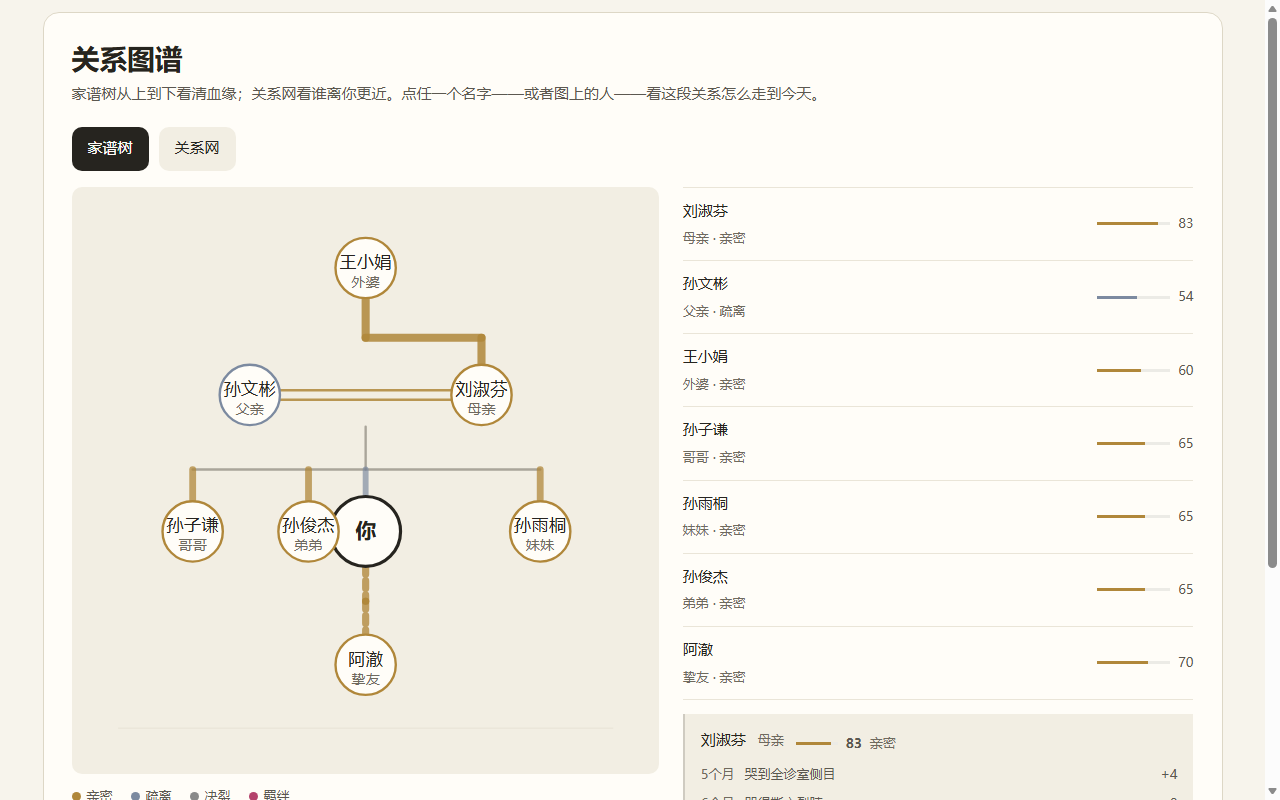
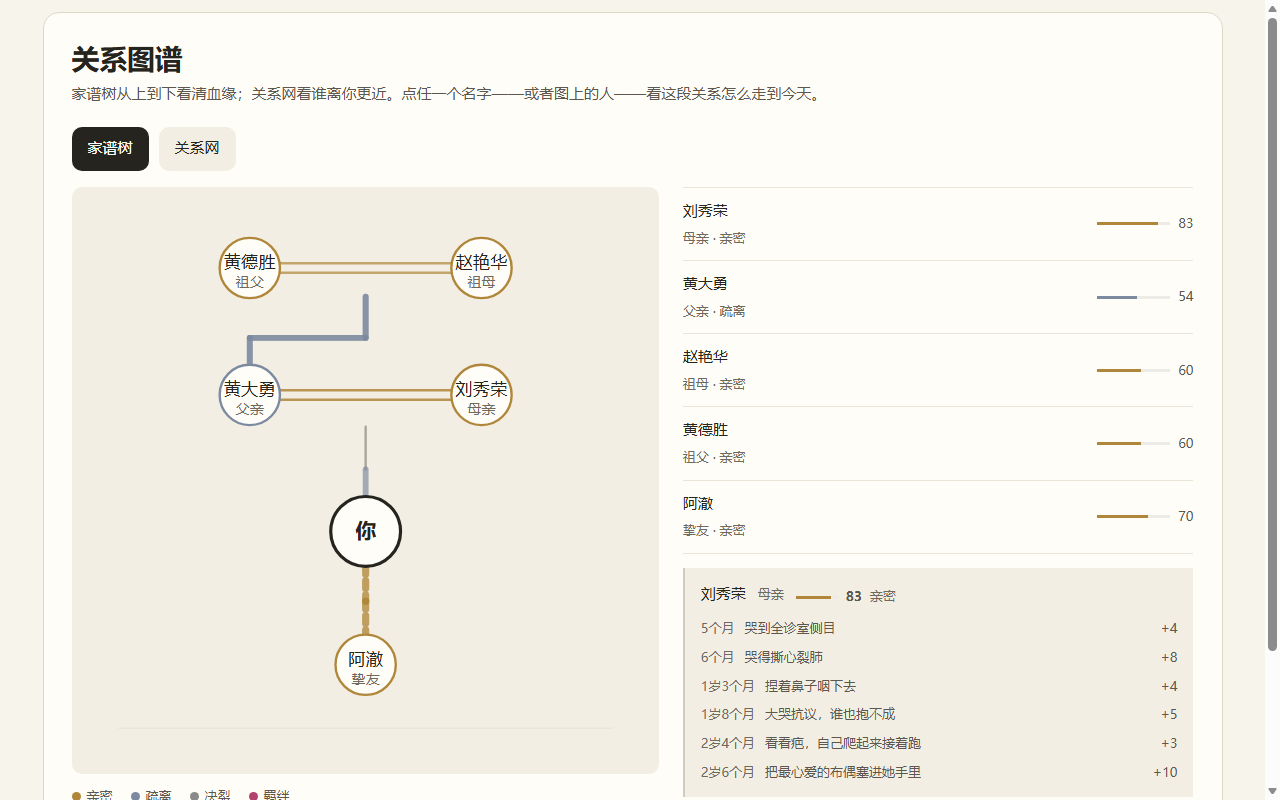
心路：v5-M4'''' 发布就绪态（v5.0.0 文书批·tag 前主体）
- 版本号 5.0.0（package.json + package-lock），tag 同号
- CHANGELOG v5.0.0：数据口径版本 v5.0.0 数据口径（事件 295 = 主线/支线 243 + 偶遇层 40 + 线索解锁 12；时代锚 76；结局 8+1；画像 16；birth-map 四要素 288 + 八因素 51840 组合域；家庭槽位 10 枚；线索 6 条；语义配图 48 张 19 类），并写明九条变更面与已知限制
- 历史存档建议重开声明（本版的重开理由是「文本口径与判定呈现变化」而非判定结论变化）：正文/选项按阅读预算重写、卡片分五种变体、新增偶遇层与轻量线索；判定核零改动、存档 schema 仍 xinlu.save.v3 不加字段、旧档可原样续读不报错，但旧档 history 存的是 v4 长文本与旧选项文案，续玩得不到 v5 的阅读体验，建议重开
- README 增量不破行门（120/120 ≤120 机检）：新增「v5 新增：一屏一句话，一个决定」九条；玩法规模 283→295 事件（偶遇 40 + 线索解锁 12）；v3 节图标数按实测改 250 枚；v2/v3/v4 节折行腾量，信息零删减
- plan/05 追加 §十 v5.0.0 发布留档主体（tag 时点事实 tag 前写定：代码态 6c085e1 全套门实测全绿；发布就绪态 = 本节所在提交代码面与 6c085e1 零差异、git diff 为空；干净静态服务双端一键通关 + 768 + v5 自定义出生全流程 exit 0 同一口径；门禁终值 validate 0 FAIL 14 区 / validate:story 七项绿 / validate:rhythm 绿 / vitest 399/399 / typecheck 0 / 许可门 0 FAIL 459 件 / 预算门 760.43KB ≤ 850KB 0 WARN / 脱敏门 531 文件 0 命中 / 布局门全绿；文本终值 主句 102·P90 117·最长 120 / 选项 8·16·0% / 单屏最长 158；dist.zip 784,893 字节 + sha256 入档；Pages 部署行留收官提交补记）
- plan/v5/00 文档索引 05 行 ⬜→✅ 主体已撰写 + plan/v5/05 骨架状态行同步翻 ✅
- e2e 截图按惯例重留痕（375/768/1280 双口径各一轮 + v5 开局四步/四主题/图谱双视图）

diff --git a/README.md b/README.md
@@ -2,10 +2,7 @@
 
 > 一段出生环境，上百个人生抉择——看 E-I / S-N / T-F / J-P 四维倾向值，慢慢长成一个人格。
 
-**心路**是一款纯前端的文字人生模拟游戏：从出生年与南北、城乡、家庭结构、父母职业、家境等八因素定盘开局
-（51840 种组合，也可「随机出生」一键开局并得到可复现的种子码），在婴儿到老年的 8 个阶段里逐张应对
-事件卡与时代卡；每次选择先落在世界观/人生观/价值观三层倾向上，再派生出 E-I / S-N / T-F / J-P 四维
-倾向值，阶段小结的手绘雷达图与演化曲线记下全部轨迹，终局凝结成带关键抉择复盘的人格报告与关系图谱快照。
+**心路**是一款纯前端的文字人生模拟游戏：从出生年与南北、城乡、家庭结构、父母职业、家境等八因素定盘开局（51840 种组合，也可「随机出生」一键开局并得到可复现的种子码），在婴儿到老年的 8 个阶段里逐张应对事件卡与时代卡；每次选择先落在世界观/人生观/价值观三层倾向上，再派生出 E-I / S-N / T-F / J-P 四维倾向值，阶段小结的手绘雷达图与演化曲线记下全部轨迹，终局凝结成带关键抉择复盘的人格报告与关系图谱快照。
 
 ![实玩演示（375px 移动端）](docs/assets/demo.gif)
 
@@ -20,44 +17,48 @@ npm install
 npm run dev      # 浏览器打开 http://localhost:5173
 ```
 
-零运行时依赖：`dependencies` 恒空，全部逻辑为原生 TypeScript + 手绘 SVG；单机离线可玩，
-进度保存在本机浏览器 localStorage（`xinlu.save.v3`，旧档自动迁移不清档），无账号、不上传任何数据；
+零运行时依赖：`dependencies` 恒空，全部逻辑为原生 TypeScript + 手绘 SVG；单机离线可玩，进度保存在本机浏览器 localStorage（`xinlu.save.v3`，旧档自动迁移不清档），无账号、不上传任何数据；
 **AI 旁路默认关闭**——关闭时全程零网络请求，离线行为与 v2 一致（见「v3 新增」一节）。
 
 ## 玩法与内容规模
 
 - **开局定盘**：出生年 + 八因素画像共 51840 种组合决定初始倾向与家人（1955–2030 出生年全域可玩）；
-- **卡片人生**：8 个阶段共 283 条事件（fate 主线 + 学业/事业/情感/友谊/健康五条支线 243 条 + 偶遇层 40 条，每题 2–3 个选项）
+- **卡片人生**：8 个阶段共 295 条事件（fate 主线 + 学业/事业/情感/友谊/健康五条支线 243 条 + 偶遇层 40 条 + 线索解锁 12 条，每题 2–3 个选项）
   与 76 张年代时代卡（逐年主锚随人生注入），其中 22 次重大抉择会显著改写轨迹；
-- **演化报告**：8 条件结局 + 1 兜底结局全部实玩与线性策略双路可达（引擎级 2496 组轴空间扫描守护），
-  16 型 MBTI 画像全文收束；终局展示本局种子码（`XL-XXXX-XXXX`）——同码同选择，结果必复现。
+- **演化报告**：8 条件结局 + 1 兜底结局全部实玩与线性策略双路可达（引擎级 2496 组轴空间扫描守护），16 型 MBTI 画像全文收束；终局展示本局种子码（`XL-XXXX-XXXX`）——同码同选择，结果必复现。
 
 以上数字由数据门自动对账：`npm run validate -- --count`。
 
 ## v2 新增：人格鱼、图鉴与分享卡
 
 - **人格鱼 mascot**：四维倾向值实时参数化一条鱼的形态与表情，全程陪伴（选项反馈 / 阶段小结 / 终局主视觉）；
-- **16 型图鉴**：开局屏进入，通关自动入册（本机 `xinlu.gallery.v2`），终局提示还有几型未解锁；
-- **终局分享卡**：一键导出 1080×1440 PNG，纯客户端生成、零上传；出生环境同步映射水域背景与云层氛围；
-- 全部素材许可与署名见 [素材与许可说明](public/credits.md)。
+- **16 型图鉴**：开局屏进入，通关自动入册（本机 `xinlu.gallery.v2`），终局提示还有几型未解锁；**终局分享卡**：一键导出 1080×1440 PNG，纯客户端生成、零上传，出生环境同步映射水域背景与云层氛围；全部素材许可与署名见 [素材与许可说明](public/credits.md)。
 
 ## v3 新增：时间轴画卷、三观传导与 AI 旁路
 
-- **时间轴画卷**：桌面双栏（八段阶段轨道 + 事件卡流）+ 移动时间轴，283 枚叙事图标逐事件配图（Game-Icons CC-BY，一图多事件语义复用，对照表留痕）；
-- **三观传导层**：选项先作用于世界观/人生观/价值观，再按传导表派生四维——性格只是表现，不是原因；三观另有随年龄的阶段漂移与内心独白提示；
-- **多线人生 + 状态条**：五条支线与主线轮转登场；心境/积蓄/健康常驻状态条随选择增损，低值触发救援事件；
-- **关系图谱**：父母、伴侣、挚友、师长等 7 位 NPC 随选择积累羁绊（按三观距离衰减），分决裂/疏离/亲密/羁绊四档；阶段小结可查看环形图谱，终局收录关系快照；
-- **随机出生与种子码**：一键随机派生出身，`XL-XXXX-XXXX` 种子码双向无损，输入任意种子码可复现同一出身；
+- **时间轴画卷**：桌面双栏（八段阶段轨道 + 事件卡流）+ 移动时间轴，295 条事件逐事件配图（Game-Icons CC-BY 250 枚，一图多事件语义复用，对照表留痕）；
+- **三观传导层**：选项先作用于世界观/人生观/价值观，再按传导表派生四维——性格只是表现，不是原因；三观另有随年龄的阶段漂移与内心独白提示；**多线人生 + 状态条**：五条支线与主线轮转登场，心境/积蓄/健康常驻状态条随选择增损，低值触发救援事件；
+- **关系图谱**：父母、伴侣、挚友、师长等 7 位 NPC 随选择积累羁绊（按三观距离衰减），分决裂/疏离/亲密/羁绊四档；阶段小结可查看环形图谱，终局收录关系快照；**随机出生与种子码**：一键随机派生出身，`XL-XXXX-XXXX` 种子码双向无损，输入任意种子码可复现同一出身；
 - **AI 旁路（可选）**：**默认关闭**，关闭时全程零网络请求；开启需自带 Key（BYO Key，OpenAI 兼容服务商），仅用于自定义选项叙事、事件文案变体与终局点评——LLM 输出限制在闭集标签内、数值本地钳制，判定核心永不联网，不可用或超时自动降级回离线行为（全仓唯一网络调用点 + 过网隔离测试守护）。
 
 ## v4 新增：年代中国、家庭与实感
 
 - **有年份的人生**：出生年（随机 / 手选 / 六因素自定义）贯通全程，「YYYY 年·N 岁」徽章逐卡可见，76 个年代主锚时代卡（1955–2030，查证三态表留痕）按五闸注入人生流；
 - **出生即家庭**：八因素画像（51840 组合）开局生成 5 位家人（南北姓名池同局不重名），「我的家庭」图谱常驻入口；
-- **故事写实化**：243 条主线/支线文本全量重写——年代锚 / 南北差异 / 家境呼应 / 五感细节 / 支线互引（机检四项 + 人工抽查留痕）；v5 起主句 ≤120 字、原文整段保留在「细看」层（内容零损失）；
-- **实感包**：主题四款（米纸 / 月白 / 夜航 / 青瓷）；积蓄按年代换算「元」+ 心境/健康五档词；移动端顶部八段阶段条；小结五段重做（三观三轴位移 / 身家状态 / 关键抉择回顾）；
-- **对象级图标与配图**：事件卡图标按文本核心物件重选，小结 8 张自产 CC0 剪影场景图随主题换色；
-- **存档 v3**：旧档自动迁移不清档；年代事件改变人生体验与判定输入，建议重开新局。
+- **故事写实化**：243 条主线/支线文本全量重写——年代锚 / 南北差异 / 家境呼应 / 五感细节 / 支线互引（机检四项 + 人工抽查留痕）；
+- **实感包**：主题四款（米纸 / 月白 / 夜航 / 青瓷）；积蓄按年代换算「元」+ 心境/健康五档词；移动端顶部八段阶段条；小结五段重做（三观三轴位移 / 身家状态 / 关键抉择回顾）；**对象级图标与配图**：事件卡图标按文本核心物件重选，小结 8 张自产 CC0 剪影场景图随主题换色；**存档 v3**：旧档自动迁移不清档，年代事件改变人生体验与判定输入，建议重开新局。
+
+## v5 新增：一屏一句话，一个决定
+
+- **文本瘦身（内容零损失）**：主句重写至 ≤120 字（中位 104 字），选项短句化（中位 8 字）每题 2–3 个，单屏可见 ≤160 字；原文整段进「细看」层（`detail`，243/243 逐字等于 v4 原文）；
+- **节奏变体**：卡片分五种形态——抽卡 / 概率条 / 静读 / 短词二选一 / 线索，每阶段 ≥3 种（节奏门 8 局 × 8 阶段实证），概率全走种子 RNG 同种子同结果；
+- **偶遇层 40 条**：按种子每阶段 0–3 条偶遇，不占主线/支线进度（也可一条不来，留白是有意的）；
+- **家庭槽位逐位命名**：图谱不再是笼统「父母」，而是父亲/母亲/外公/外婆等 10 枚槽位；单亲家庭不再凭空长出一位未生成的家长（缺陷修复）；
+- **开局四步 + 出生证明**：一屏一个问题（三选一 → 八因素表单 → 出生证明 → 起程）可逐级回退不丢值；出生证明一屏读全八因素 + 种子码，随机态可「再来一次」；
+- **素纸主题**：删纸纹与背景图，四款主题提对比重做（ink/ground ≥7:1 逐主题断言）；设置页补阅读偏好（字号/动效）与清档；
+- **家谱树双视图**：默认家谱树（三代纵向、玩家居中、正交母线、婚姻双线），可切关系网（曲线 + 亲疏 = 线宽 × 透明度）；点节点看关系值与该段关系的逐条变化记录；
+- **语义配图**：48 张自产 CC0 线稿 / 19 类，按事件核心物件映射，覆盖 85.8%，未覆盖 42 条显式豁免（不留空框）；逐张对文案留痕 [docs/v5-scenes.md](docs/v5-scenes.md)；
+- **轻量线索**：每阶段最多 1 处（共 6 条）——锚事件后 2–3 条观察、两个解读二选一，选完解锁 12 条新事件；纯 flag 判定（零随机、不动三观），线索卡不显示三观增量。
 
 ## 人格模型依据
 

diff --git a/CHANGELOG.md b/CHANGELOG.md
@@ -2,7 +2,26 @@
 
 版本遵循语义化版本；内容版本规则（双层版本的游戏版）见 [plan/06-运维节奏.md](plan/06-运维节奏.md)：结局/画像判定结论变化 → 主版本 +1 并在 Release 注明历史存档是否需重开；新增事件/结局 → 次版本 +1；纯文案微调 → 补丁。
 
-**每条发布条目均注明数据口径版本。** 数值口径单一定义源：v1 口径在 [plan/02-数据与口径.md](plan/02-数据与口径.md)，v2 增量在 [plan/v2/02-数据与口径.md](plan/v2/02-数据与口径.md)，v3 增量在 [plan/v3/02-数据与口径.md](plan/v3/02-数据与口径.md)，v4 增量在 [plan/v4/02-数据与口径.md](plan/v4/02-数据与口径.md)；实际规模以对账命令 `npm run validate -- --count` 输出为准。
+**每条发布条目均注明数据口径版本。** 数值口径单一定义源：v1 口径在 [plan/02-数据与口径.md](plan/02-数据与口径.md)，v2 增量在 [plan/v2/02-数据与口径.md](plan/v2/02-数据与口径.md)，v3 增量在 [plan/v3/02-数据与口径.md](plan/v3/02-数据与口径.md)，v4 增量在 [plan/v4/02-数据与口径.md](plan/v4/02-数据与口径.md)，v5 增量在 [plan/v5/02-数据与口径.md](plan/v5/02-数据与口径.md)；实际规模以对账命令 `npm run validate -- --count` 输出为准。
+
+## v5.0.0（2026-10-26）
+
+**数据口径版本**：v5.0.0 数据口径（2026-10-26 末态，plan/02 + plan/v2/02 + plan/v3/02 + plan/v4/02 + plan/v5/02 单源。事件库 **295**（主线/支线 243 + 偶遇层 40 + 线索解锁 12）/ 时代锚 76（✅已核对 55 / 典型值 21，国际 10） / 结局 8 条件 + 1 兜底 / 画像 16 / birth-map 四要素 288 + 八因素 51840 组合域 / 家庭槽位 10 枚 / 线索 6 条 / 语义配图 48 张 19 类，对账 `npm run validate -- --count`）
+
+> **历史存档建议重开**：本版本改了**文本口径与判定呈现**——所有事件的正文与选项按阅读预算重写（主句中位 207→104 字、选项中位 20→8 字，原文整段折叠进「细看」层），卡片的呈现形态也分成了抽卡/概率条/静读/短词二选一/线索五种变体，并新增偶遇层与轻量线索。**判定核零改动**（三观传导 / 结局条件 / 调度单调 / 种子复现全部照旧），存档 schema 仍为 `xinlu.save.v3`、不加字段，**旧档可原样续读不会出错**；但旧档的 history 里存的是 v4 的长文本与旧选项文案，续玩看到的仍是上一版的阅读体验与卡片形态，建议重开新局体验 v5。
+
+- **文本瘦身（内容零损失）**：243 条主线/支线主句全部重写至 ≤120 字（中位 104 / P90 117 / 最长 120），选项短句化（中位 8 / 最长 16），每题收敛为 2–3 个选项；v4 原文整段迁移到 `detail` 字段，卡片「细看」层可展开读到（243/243 逐字等于 v4 原文，非文案字段零改动）；单屏可见字数 ≤160（E2E 全程硬断言，实测最长 158），状态条折叠为细线、正文行宽收敛到一行 34 字；
+- **节奏变体**：卡片不再只有一种呈现——抽卡、概率条、静读、短词二选一、线索五种形态按阶段分配（`validate:rhythm`：8 局 × 8 阶段每阶段 4–5 种变体、非 critical 段同变体连片 ≤3）；概率判定全走种子化 RNG，同种子同结果；
+- **偶遇层 40 条**：每阶段 5 条偶遇事件，按种子 0–3 条随机注入，不占主线/支线进度，也可一条不来（留白是有意的）；
+- **家庭槽位逐位命名（缺陷修复）**：图谱不再只有笼统的「父母」，而是父亲/母亲/外公/外婆等 10 枚槽位逐位命名（5 种家庭结构区间合法、南北侧系闭合）；家庭成员缺席即落空不入册，单亲家庭不会再凭空长出一位从未生成的家长；
+- **开局四步 + 出生证明卡**：一屏一个问题（随机 / 手选 / 自定义三选一 → 八因素表单 → 出生证明 → 起程），可逐级回退不丢已填的值；出生证明一屏读全八因素（出生年 / 南北 / 城乡 / 结构 / 父母职业 / 家境 / 家庭成员 / 种子码），随机态可「再来一次」换种子；
+- **素纸主题（D8）**：删除纸纹层与背景图，四款主题（米纸 / 月白 / 夜航 / 青瓷）提对比重做，`ink/ground`、`ink/surface` ≥7:1、`ink-2/ink-3` ≥4.5:1 逐主题断言；设置页补阅读偏好（字号 2 档 / 动效 2 档）与本机存档清除；
+- **家谱树双视图**：关系图谱默认「家谱树」——三代纵向、玩家恒在第二层正中、正交折线母线（多子女共用的走线只画一次）、婚姻双线；「关系网」视图重做为曲线连边 + 亲疏两维（线宽 × 透明度）；点任一节点看关系值与该段关系的逐条变化记录（何时 / 因何 / 增量，从 history 回查，不新增存档字段）；
+- **语义配图（D9）**：**自产 CC0 线稿 SVG 48 张 / 19 类**（≈0.7KB/张），按事件核心物件映射到语义标签，覆盖 253/295 = 85.8%，豁免 42 条显式不渲染（不占位、不留空框）；逐张对文案留痕 [docs/v5-scenes.md](docs/v5-scenes.md)（偏离原「CC0 照片」口径的理由与实测数据在该档 §一）；
+- **轻量线索（D10）**：每阶段最多 1 处（共 6 条）——锚事件后给 2–3 条观察、两个解读二选一，选完解锁 12 条新事件之一；判定为纯 flag 映射（零随机、零三观改动），线索卡不显示三观增量读数；
+- 零运行时依赖不变（`dependencies` 恒空；配图为内联静态 SVG）；GitHub Pages 同址更新；素材预算门 850KB 线（实测 760.43KB）。
+
+已知限制：MBTI 娱乐向定位（不构成心理测评）；AI 旁路为实验性可选功能（沿 v3 口径，默认关闭）；分享卡手机相册端 iOS Safari 兼容沿 v2 口径；配图为语义复用（一图多事件），不承诺每事件独有配图；线稿为同一套画法（共用画布/线宽/配色），表现力上限见 [plan/v5/backlog.md](plan/v5/backlog.md) 观察区；素材第三方许可与已知限制全文见 credits。
 
 ## v4.0.0（2026-10-26）
 

diff --git a/plan/05-发布留档.md b/plan/05-发布留档.md
@@ -168,3 +168,41 @@
 - [x] CHANGELOG 注明「年代事件改变人生体验与判定输入 → 历史存档建议重开」
 - [x] README 增量（v4 新增节 + save.v3 + 八因素开局口径）不破行门（119 行 / ≤120，状态行 = 表格行）
 - [x] 状态副本 / 台账翻齐（plan/00 + README 两副本 + v4/00 台账「历史存档重开声明」行 + v4/03 模块 6）
+
+## 十、v5.0.0 发布留档（v5-M4'''' · 2026-10-26）
+
+> 单源约定：v5 套件 [v5/05-发布留档.md](v5/05-发布留档.md) 是骨架载体，v5.0.0 的主体事实唯一存放本节（单源不双写），本节判据与 §七/§八/§九 同构。v5.0.0 = 文本口径与判定呈现变化 → 主版本 +1（双层版本规则，plan/06；**判定核零改动**，故重开建议的理由是「阅读体验与卡片形态换代」，不是判定结论变化）。
+
+### 发布概要
+
+| 项 | 值 |
+|---|---|
+| 版本 | v5.0.0（package.json / package-lock 5.0.0，tag 同号） |
+| 数据口径版本 | v5.0.0 数据口径（2026-10-26 末态；对账 `npm run validate -- --count`：事件 **295**（主线/支线 243 + 偶遇层 40 + 线索解锁 12） / 时代锚 76（✅已核对 55 / 典型值 21） / 结局 8 条件 + 1 兜底 / 画像 16 / birth-map 四要素 288 + 八因素 51840 组合域 / 家庭槽位 10 枚 / 线索 6 条 / 语义配图 48 张 19 类） |
+| 部署地址 | https://yuluo554.github.io/xinlu/（URL 不变，内容随 v5 更新） |
[1 lines of base64/hex data omitted]
+
+### tag 时点事实（2026-10-26，tag 之前写定）
+
+- 构建与验证：2026-10-26；代码态 commit `6c085e1`（v5-M3'''' 收官态，全套门在该态实测全绿）；发布就绪态 = 本节所在提交（README 增量 + CHANGELOG v5.0.0 + 版本号 5.0.0 + plan/05 §十主体 + v5/00 索引 05 行 + v5/05 骨架状态行，**代码面与 `6c085e1` 零差异**，dist 产物同构重建，`git diff 6c085e1..HEAD -- src/ scripts/ tools/` 为空）；
+- 干净环境冒烟：纯静态服务（`py -m http.server` 伺服 `dist/`，等价 Pages 托管）**375/1280 双端一键通关**（ESFJ「路上的人」两档）+ 768 中档 + v5 自定义出生全流程（四步开局 / 八因素逐项对账 / 1956 时代卡首屏 / 年份徽章 / 我的家庭图谱本局姓名 / 存档 v3 形状）exit 0（`node tests/e2e/smoke.mjs --no-build --base-url <static-url>` 同一口径）；
+- 门禁终值（发布就绪态实测）：e2e 双端绿（两口径：vite preview 全量 `npm run e2e` + 干净静态服务）/ validate **0 FAIL（14 区）**（295 事件 / 图标 295/295 / `F` 家庭槽位 / `C` 线索 / `S` 语义配图）/ validate:story **七项全绿**（扫到 255 条）/ validate:rhythm 绿（8 局 × 8 阶段）/ vitest **399/399**（36 文件，含可达性全量 2496 组 + 年代轴抽样 936 局）/ typecheck 0 错 / 许可门 0 FAIL（459 件）/ 预算门 **760.43KB / 850KB** 0 WARN / 脱敏门 531 文件 0 命中 / 布局门全绿；
+- 文本终值（`validate:story` 当轮实测）：正文主句 中位 **102** / P90 **117** / 最长 **120**；选项 中位 **8** / 最长 **16** / ≥20 字占比 **0.0%**；`detail` 缺 0 / 超长 0 / 非前缀 0；单屏 >160 **0 条**（E2E 全程硬断言，实测最长 158 字）；
+- CHANGELOG 条目与口径版本：v5.0.0（2026-10-26），数据口径版本 v5.0.0 数据口径，**含历史存档建议重开声明**（文本口径与判定呈现变化：正文/选项重写 + 五种卡片变体 + 偶遇层 + 轻量线索；判定核零改动、存档 schema 仍 `xinlu.save.v3` 不加字段、旧档可原样续读不报错，但旧档 history 存的是 v4 长文本与旧选项文案，续玩得不到 v5 的阅读体验；见 CHANGELOG.md v5.0.0 节）；
+- 已知问题：MBTI 娱乐向定位（不构成心理测评）；AI 旁路为实验性可选功能（沿 v3 口径：BYO Key 本机明文、判定核心永不过网、默认关闭）；分享卡手机相册端 iOS Safari 兼容沿 v2 已知限制口径；**配图为语义复用**（一图多事件，不承诺每事件独有），覆盖 253/295 = 85.8%，42 条显式豁免不渲染；**配图为自产 CC0 线稿**（48 张 / 19 类，偏离原「CC0 照片」口径的理由与实测见 [docs/v5-scenes.md](../docs/v5-scenes.md) §一）；线稿为同一套画法，表现力上限与其它 v5 观察项见 [v5/backlog.md](v5/backlog.md) 观察区；素材第三方许可与已知限制全文见 `public/credits.md`。
+
+### tag 后追加事实（发布后填，不得回写上节）
+
+- 实际 tag 与 Release：待发布后补记；
+- Release 附件实际 sha256：待发布后补记；
+- Traffic 对比 v1/v2/v3/v4 基线：待发布后补记；
+- 首批外部反馈（如有）：待发布后补记。
+
+### DoD 达成声明（对照 v5/00 §里程碑总表 v5-M4'''' 行逐项打勾；收官提交翻齐）
+
+- [ ] 三件套：tag v5.0.0 + Release 附产物（dist.zip + sha256）+ 本节留档
+- [ ] Release 说明五部分（变更摘要 / 数据口径版本 / **历史存档建议重开声明** / 校验和 / 已知问题）
+- [ ] tag 在构建与部署验证之后
+- [ ] CHANGELOG 注明「文本口径与判定呈现变化 → 历史存档建议重开」
+- [ ] README 增量（v5 新增节 + 295 事件口径）不破行门（120 行 / ≤120，状态行 = 表格行）
+- [ ] 状态副本 / 台账翻齐（plan/00 + README 两副本 + v5/00 台账「历史存档重开声明」行 + v5/03 模块 6）

diff --git a/plan/v5/00-README总览.md b/plan/v5/00-README总览.md
@@ -13,7 +13,7 @@
 | 02 | [02-数据与口径.md](02-数据与口径.md) | v5 口径单源：家庭槽位 / 偶遇层 / 节奏变体 / 文本长度门 / 主题色板 / 语义图库 / 线索玩法 + **§十二/§十三/§十四 实现增补**（v5-M1''''/M2''''/M3''''） | ✅ 已定稿（2026-10-26 增补 §十四） |
 | 03 | [03-模块清单与验收.md](03-模块清单与验收.md) | 6 个 v5 模块 × 职责 / 契约 / 验收 | 🟡 模块 1–5 ✅（v5-M3''''）、模块 6 🟡（发布三件套留 v5-M4''''） |
 | 04 | [04-里程碑任务分解.md](04-里程碑任务分解.md) | v5-M1''''–M4'''' 任务块 / 验证命令 / 评审门 | ✅ 已定稿（v5-M1''''/M2''''/M3'''' 执行结果已注） |
-| 05 | [05-发布留档.md](05-发布留档.md) | v5.0.0 三件套留档骨架 | ⬜ 待 v5-M4'''' 撰写主体 |
+| 05 | [05-发布留档.md](05-发布留档.md) | v5.0.0 三件套留档骨架（主体落本仓库 plan/05 §十，单源不双写） | ✅ 主体已撰写（2026-10-26 v5-M4'''' 发布棒） |
 | 06 | [06-运维节奏.md](06-运维节奏.md) | 沿用十四类缺口 + v5 扩展 | ✅ 规则已定稿 |
 | — | [backlog.md](backlog.md) | v5 迭代队列（证据制） | ✅ 已启用（2026-10-26；队列空 + 观察区 13 项） |
 | — | [HANDOFF-v5-M1.md](HANDOFF-v5-M1.md) | 装订棒 → v5-M1'''' 入棒单（七节） | ✅ 已写定（2026-10-26） |

diff --git a/plan/v5/05-发布留档.md b/plan/v5/05-发布留档.md
@@ -1,6 +1,6 @@
 # 05 · 《心路》v5.0 发布留档
 
-> **状态：⬜ 待 v5-M4'''' 撰写主体（骨架先行，2026-10-26 建立）**
+> **状态：✅ 主体已撰写（2026-10-26 v5-M4'''' 发布棒；落盘 = 本仓库 `plan/05-发布留档.md` §十，单源不双写）**
 > 自证约定：主体在 tag v5.0.0 **之前**定稿；发布后事实只进「tag 后追加」分栏。实际落盘 = 并入本仓库 `plan/05-发布留档.md` 新增 §十 v5.0.0 节（单源不双写），本骨架随 v5 套件留存。
 
 ## 一、发布概要（待 v5-M4'''' 填）
